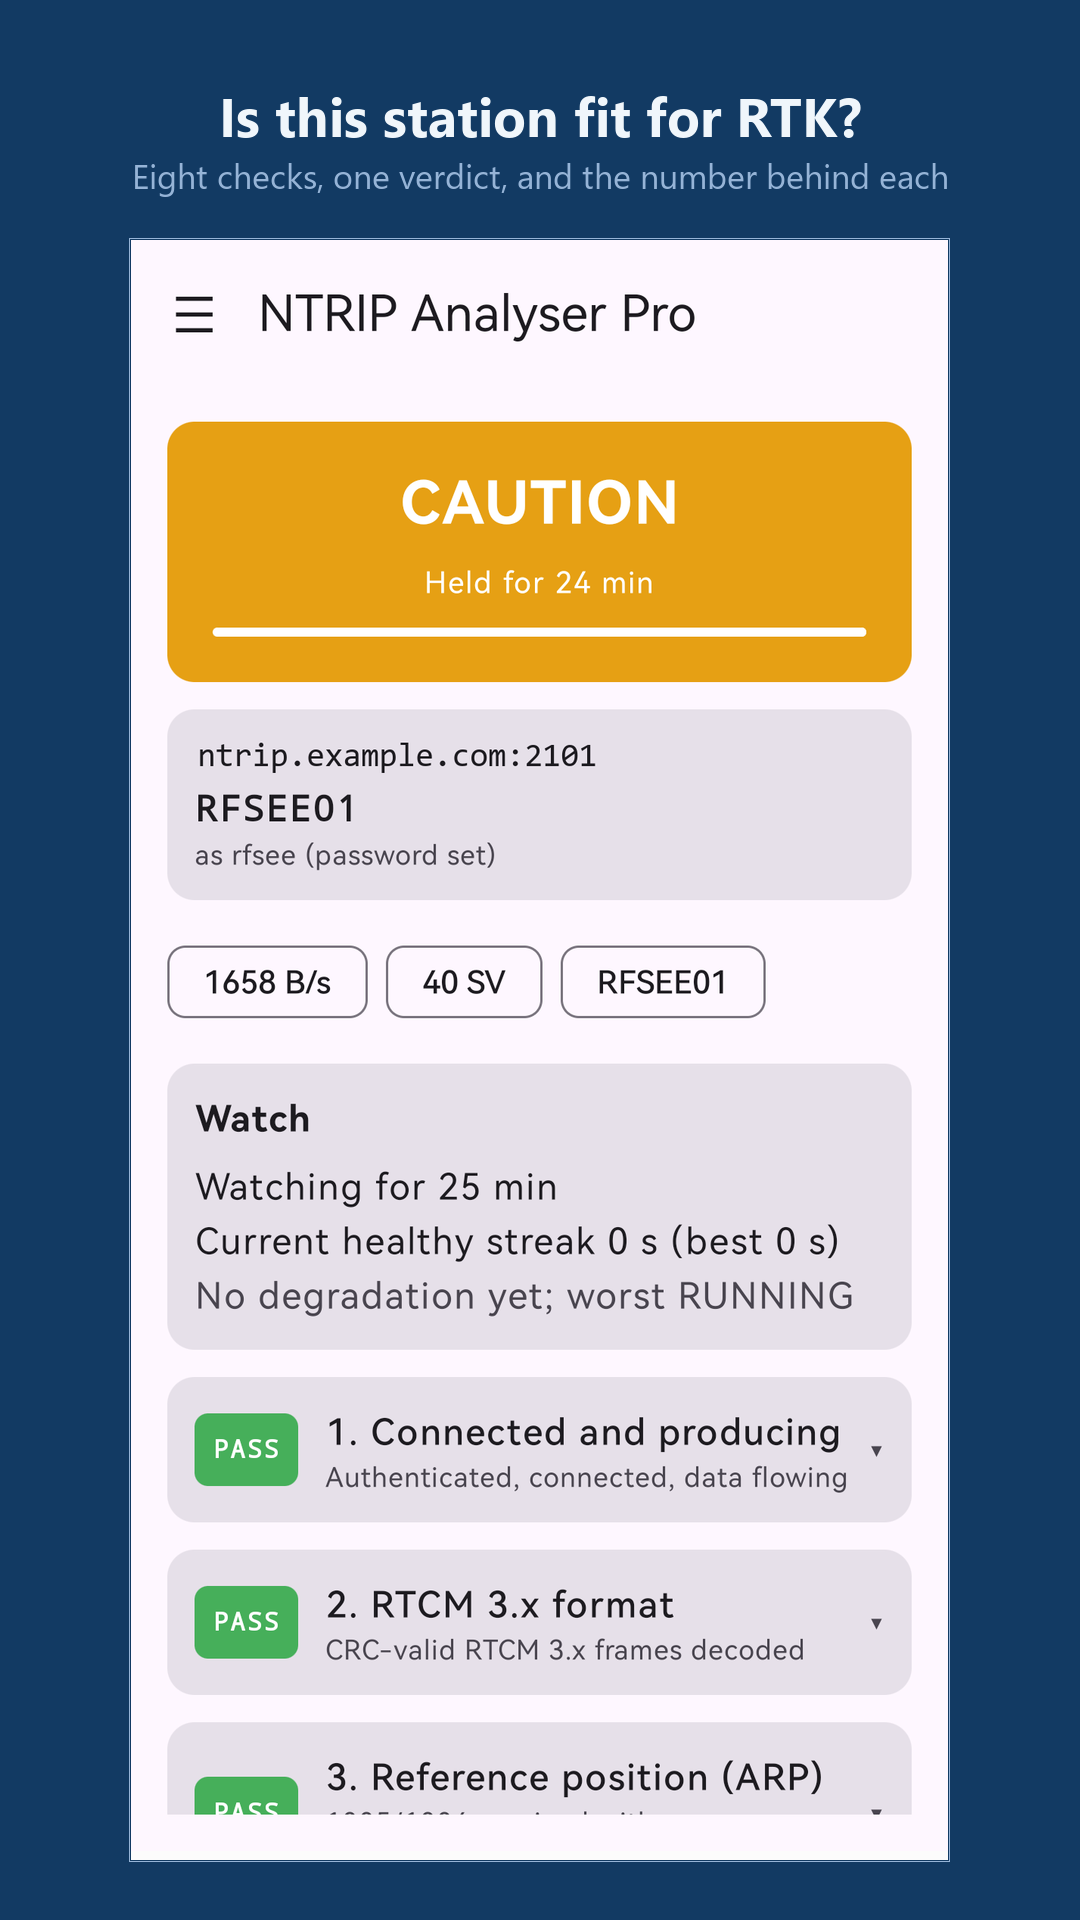
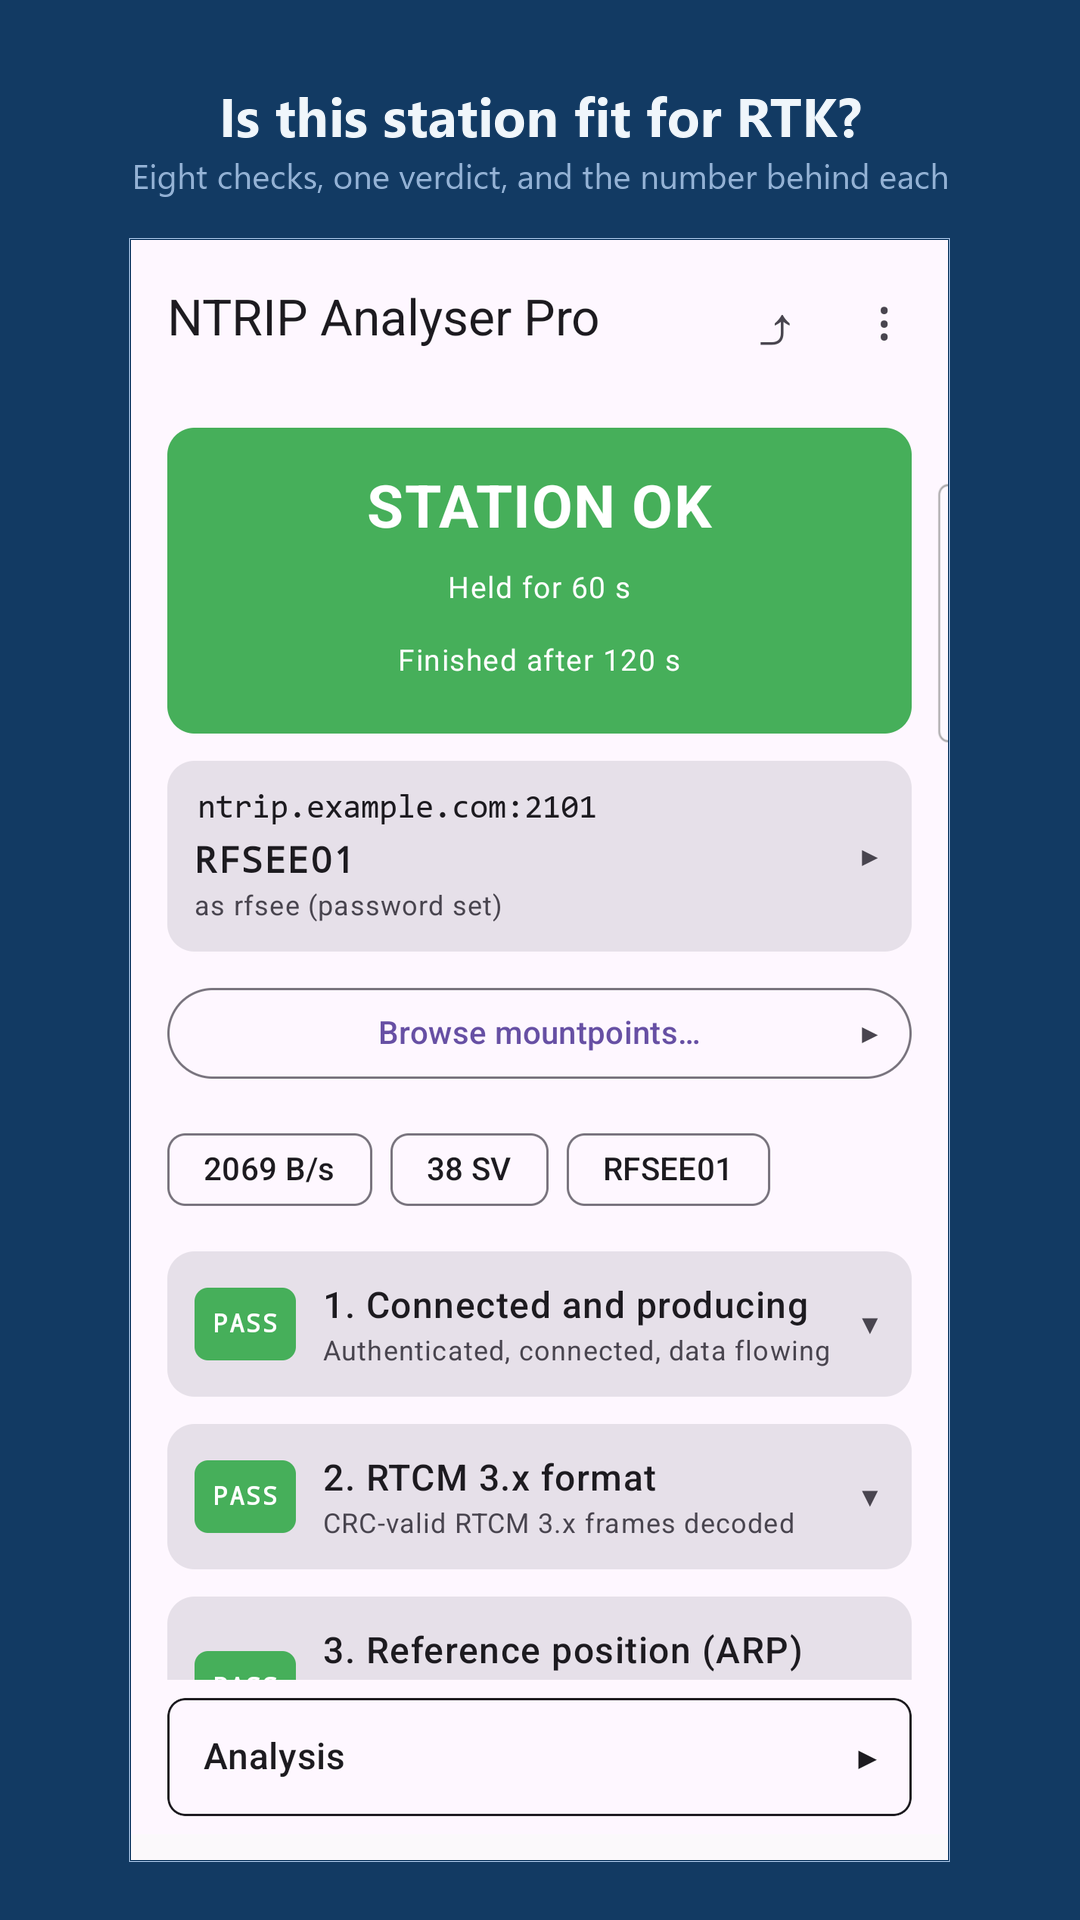
Re-take pro's listing screenshots, and stop the redactions drifting
The four screenshots showed the v2 layout. They are re-taken against
3.7.0 from a run reading STATION OK, held 60 s, 38 SV at 2069 B/s with
orbits from the ephemeris stream -- and taking them caught the sky view
drawing its station line and legend under the navigation buttons, which
is fixed in the same commit.

Framing them caught something worse. The redaction boxes are fixed
positions measured against v2, so the tool painted a documentation host
into the gap above the connection tile, leaving the real caster readable
below it, and painted the ARP replacement across the legend, leaving the
station's real coordinates in place. Both files were written, bound for a
public listing.

The boxes are re-measured, and the tool now refuses to write unless a box
covers grey ink: there must be text under it and it must not be coloured.
Checking only for ink was not enough -- the legend is ink, and that is
exactly where the drifted box had landed. Every box is checked before the
first file is written, because a half-updated directory is the state most
likely to be uploaded without anyone noticing.

diff --git a/android/app/src/main/java/nl/pe1mew/ntripanalyser/Shell.kt b/android/app/src/main/java/nl/pe1mew/ntripanalyser/Shell.kt
@@ -28,6 +28,7 @@ import androidx.compose.foundation.clickable
 import androidx.compose.foundation.layout.Arrangement
 import androidx.compose.foundation.layout.PaddingValues
 import androidx.compose.foundation.layout.WindowInsets
+import androidx.compose.foundation.layout.navigationBars
 import androidx.compose.foundation.layout.Row
 import androidx.compose.foundation.layout.fillMaxWidth
 import androidx.compose.foundation.layout.navigationBarsPadding
@@ -96,7 +97,14 @@ fun AppScaffold(
         // well, and on a phone drawn edge to edge that shows as a band
         // of nothing under the title -- an S23 had 80 dp of it while the
         // other handset, which gives the app a smaller window, had none.
-        contentWindowInsets = WindowInsets(0, 0, 0, 0),
+        //
+        // The navigation bar is the exception, and only where there is
+        // no analysis bar to absorb it: on those screens the content
+        // runs to the bottom of the window, and the sky view's ARP line
+        // and legend were drawn underneath the system's own buttons.
+        contentWindowInsets =
+            if (analysis != null) WindowInsets(0, 0, 0, 0)
+            else WindowInsets.navigationBars,
         topBar = {
             TopAppBar(
                 // No title parameter, deliberately. The name of the app

diff --git a/tools/make_store_shots.py b/tools/make_store_shots.py
@@ -95,11 +95,17 @@ REDACTIONS = {
         'main': [
             # (box, replacement, monospace, size, fill, ink) -- the
             # connection tile's caster line, monospace in the app.
-            ((84, 752, 470, 796), 'ntrip.example.com:2101', True, 44,
+            # Re-measured for GUI v3 (3.7.0): the tile sits higher now
+            # that the hub's margins scroll with the content, and the
+            # old box painted a documentation host into the gap *above*
+            # the tile while the real one stayed readable below it.
+            ((84, 818, 470, 866), 'ntrip.example.com:2101', True, 44,
              TILE_BG, TILE_INK),
         ],
         'sky': [
-            ((368, 2152, 812, 2202), ARP_HIDDEN, True, 40,
+            # Likewise: v3 moved the footer up, clear of the navigation
+            # bar, so the old box landed on the legend.
+            ((368, 2058, 812, 2108), ARP_HIDDEN, True, 40,
              PAGE_BG, PAGE_INK),
         ],
     },
@@ -111,7 +117,7 @@ REDACTIONS = {
         # Same geometry in both editions: the footer is drawn by the same
         # composable, below a plot of fixed height.
         'sky': [
-            ((368, 2152, 812, 2202), ARP_HIDDEN, True, 40,
+            ((368, 2058, 812, 2108), ARP_HIDDEN, True, 40,
              PAGE_BG, PAGE_INK),
         ],
     },
@@ -127,9 +133,46 @@ def mono(size):
     return font(size)
 
 
+def covers_plain_text(shot, box, threshold=140, need=30):
+    """Whether @p box sits on the kind of line it is meant to hide.
+
+    Two conditions, and it took both to catch the real fault. A box that
+    covers **nothing** paints a documentation host into empty space and
+    leaves the real one visible below -- what GUI v3 did to the box
+    measured for v2. A box that covers **something else** is worse: the
+    v2 sky box landed squarely on the constellation legend, which is ink
+    enough to satisfy any "is there text here" test while the real
+    coordinates sat untouched a line above.
+
+    So: there must be ink, and it must be *grey* ink. Neither line this
+    tool hides is coloured -- the caster is dark on the tile, the ARP is
+    muted on the page -- while everything nearby that could be hit by a
+    drifting box is not: the legend has its constellation dots, the plot
+    its satellites, the verdict its banner.
+    """
+    px = shot.load()
+    dark = 0
+    for x in range(box[0], box[2]):
+        for y in range(box[1], box[3]):
+            r, g, b = px[x, y][:3]
+            if max(r, g, b) - min(r, g, b) > 40:
+                return False          # colour: this is not a text line
+            if (r + g + b) / 3 < threshold:
+                dark += 1
+    return dark >= need
+
+
 def redact(shot, name, edition):
     """Paint out anything in the capture that should not be published."""
     for box, text, monospace, size, bg, ink in             REDACTIONS.get(edition, {}).get(name, []):
+        if not covers_plain_text(shot, box):
+            raise SystemExit(
+                "redaction box %s does not cover a plain text line in "
+                "%s.png (%s). "
+                "The layout has moved: re-measure it against the capture "
+                "before publishing, because painting here would hide "
+                "nothing and leave the real value on screen."
+                % (box, name, edition))
         draw = ImageDraw.Draw(shot)
         draw.rectangle(box, fill=bg)
         f = mono(size) if monospace else font(size)
@@ -199,11 +242,27 @@ def main():
     out_dir = os.path.join(root, 'docs', 'images', 'store', edition)
     os.makedirs(out_dir, exist_ok=True)
 
+    # Every redaction is checked before anything is written. A run that
+    # stops half way leaves a directory holding some new screenshots and
+    # some old ones, which is the state most likely to be uploaded
+    # without anybody noticing.
+    present = [name for name in ORDER
+               if os.path.exists(os.path.join(src, name + '.png'))]
+    for name in present:
+        shot = Image.open(os.path.join(src, name + '.png')).convert('RGB')
+        for box, _text, _mono, _size, _bg, _ink in                 REDACTIONS.get(edition, {}).get(name, []):
+            if not covers_plain_text(shot, box):
+                print("redaction box %s does not cover a plain text line "
+                      "in %s.png (%s). " 
+                      "The layout has moved: re-measure "
+                      "it against the capture before publishing, because "
+                      "painting here would hide nothing and leave the real "
+                      "value on screen." % (box, name, edition))
+                return 1
+
     n = 0
-    for name in ORDER:
+    for name in present:
         path = os.path.join(src, name + '.png')
-        if not os.path.exists(path):
-            continue
         n += 1
         title, subtitle = CAPTIONS[name]
         out = os.path.join(out_dir, '%d-%s.png' % (n, name))

diff --git a/design/guiV3rollout.md b/design/guiV3rollout.md
@@ -781,7 +781,51 @@ each actually covers.
   is written in the GUI: a second wording of one judgement is how two
   descriptions of the same fault start disagreeing.
 
-| **P6.5** | Release: tag, Windows assets, Play closed test — the author's, per `docs/RUNBOOK.md` |
+| **P6.5** — **prepared 2026-08-22**, publishing is the author's | Release: tag, Windows assets, Play closed test — the author's, per `docs/RUNBOOK.md` |
+
+### P6.5 — what is ready, and what is not mine to do
+
+**Ready and verified here:**
+
+| | |
+|---|---|
+| Tests | 13 of 13 |
+| `check_release.py` | 70 checks, consistent at 3.7.0 |
+| `verify_memory.py --offline` | 14 pass, 0 fail (2 network claims left to Monday) |
+| Windows assets | staged in `build/dist`, with `SHA256SUMS-3.7.0-windows-x64.txt` |
+| The packaged CLI | answers `ntrip-analyser 3.7.0` — read from the artefact, not the tree |
+| Play bundles | `app-{free,pro}-release.aab`, both carrying `arm64-v8a` and `x86_64` |
+| R8 smoke test | pro's **release-signed** build has been running on an S23 all afternoon: starts, runs checks, decodes documents. Neither release-only failure the runbook names appeared |
+
+`cmake --build build --target release` warned, correctly, that HEAD
+carries no tag and it was packaging a development build. That is the
+guard doing its job; it turns green when the bump commit is tagged.
+
+**Not mine.** The runbook's line is unambiguous and was written after I
+crossed it once: *the agent never publishes* — and publishing covers
+uploading, `gh release create`, `gh release edit --draft=false`, pushing
+a tag, and the Play console. The commands are in the handover, not run
+here.
+
+**Pro's listing screenshots are re-taken** (2026-08-22) against this
+build, from a run that reads `STATION OK`, held 60 s, finished after
+120 s, 38 SV at 2069 B/s with orbits from the ephemeris stream. The
+captures also caught a fault before it shipped: the sky view's station
+line and legend were drawn under the navigation buttons, which is fixed.
+
+Framing them turned up a second one, and a worse one. The redaction
+boxes in `make_store_shots.py` are fixed positions measured against v2,
+so the tool painted a documentation host into the gap above the
+connection tile — leaving the real caster readable below it — and the
+ARP replacement across the legend, leaving the real coordinates in
+place. The boxes are re-measured, and the tool now refuses to write
+unless each box covers grey ink: text must be under it, and it must not
+be coloured, which is what distinguishes the line being hidden from the
+legend beside it.
+
+**Free's four are still outstanding** — free is not installed on the S23
+and would need its own configuration.
+
 
 ---
 

diff --git a/memory/gotcha-log.md b/memory/gotcha-log.md
@@ -313,6 +313,11 @@
 
 Found by probe rather than by reading: a background colour showed the empty band was outside the hub, `onGloballyPositioned` put the hub's top at 711 px where its padding said 338, and logging the children's heights gave 860 px of content in a 1700 px viewport -- the difference, halved, was the band. **When a layout is placed somewhere unexpected, ask it where it is** rather than deducing it from the modifier chain. And when a fix is reported as not working, believe the report: twice here the symptom was still there because only part of the cause had gone.
 
+### A redaction that moved off the thing it hid (2026-08-22)
+**Problem**: `make_store_shots.py` frames captures for the Play listing and paints over two things: the caster's real address and the station's ARP to six decimals. Re-run against GUI v3 captures, it painted `ntrip.example.com:2101` into the gap *above* the connection tile -- leaving the real host readable below it -- and `52,xxxxxx, 5,xxxxxx` across the constellation legend, leaving the real coordinates untouched one line up. Both files were written to `docs/images/store/pro/`, bound for a public listing.
+**Root cause**: the boxes are fixed pixel positions, measured against the v2 layout. The file's own comment warned about exactly this -- *"Re-measure if the layout changes; a box that has drifted paints over the wrong line"* -- and a warning in a comment is obeyed until the day nobody reads it.
+**Fix**: boxes re-measured for v3, and the class closed rather than re-warned. The tool now refuses to write when a box does not cover **grey ink**: there must be text under it, and it must not be coloured. A first attempt only checked for *ink* and passed happily with the box sitting on the legend -- the legend is ink. Both conditions were needed, and the second is the one that catches a drift onto a neighbouring line. Every box is checked before the first file is written, because a half-updated directory is the state most likely to be uploaded unnoticed. Falsified by restoring the v2 box: the run stops, names the box and the capture, and leaves the existing screenshots alone.
+
 ## Promoted
 
 <!-- Track what has been promoted, so it is not promoted twice and so the loop

diff --git a/changelog.md b/changelog.md
@@ -71,8 +71,12 @@ app is drawn behind the status and navigation bars and cannot opt out.
 The analysis bar now takes the navigation bar's height into account —
 without it, on a phone with three-button navigation, the word *Analysis*
 read through the buttons — and the content no longer pays the insets a
-second time, which showed as a band of nothing under the title. Both
-appeared on an S23 and on neither of the other test devices.
+second time, which showed as a band of nothing under the title. On the
+screens that have no bar to absorb it, the content takes that height
+itself: the sky view's station line and its colour key were drawn
+underneath the same buttons. All three appeared on an S23 and on neither
+of the other test devices, which is the argument for testing on more
+than one.
 
 **A folded-open KPI row stays open** across a rotation and across the end
 of a run, and folds shut when a new run begins. It used to shut itself at
